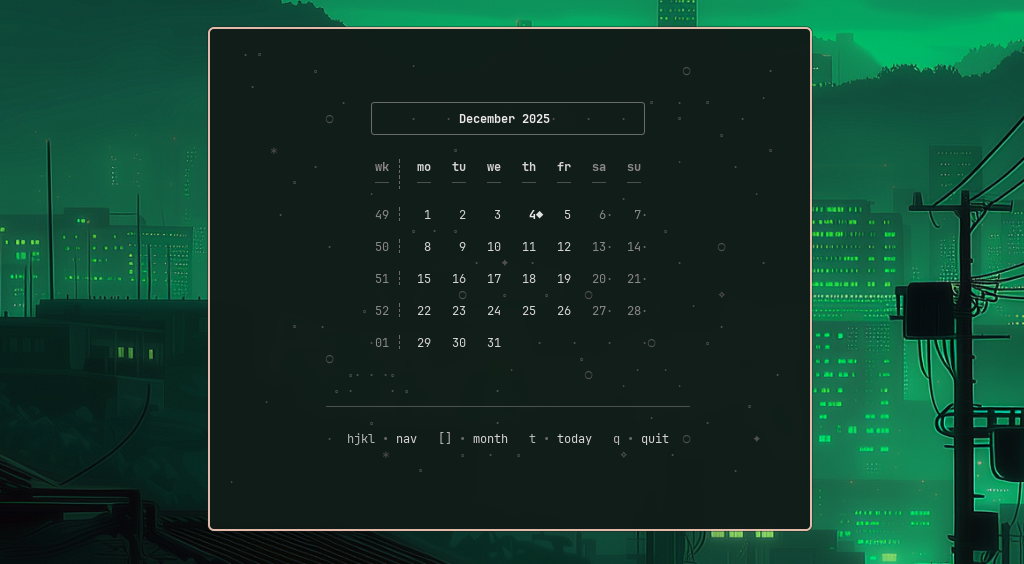
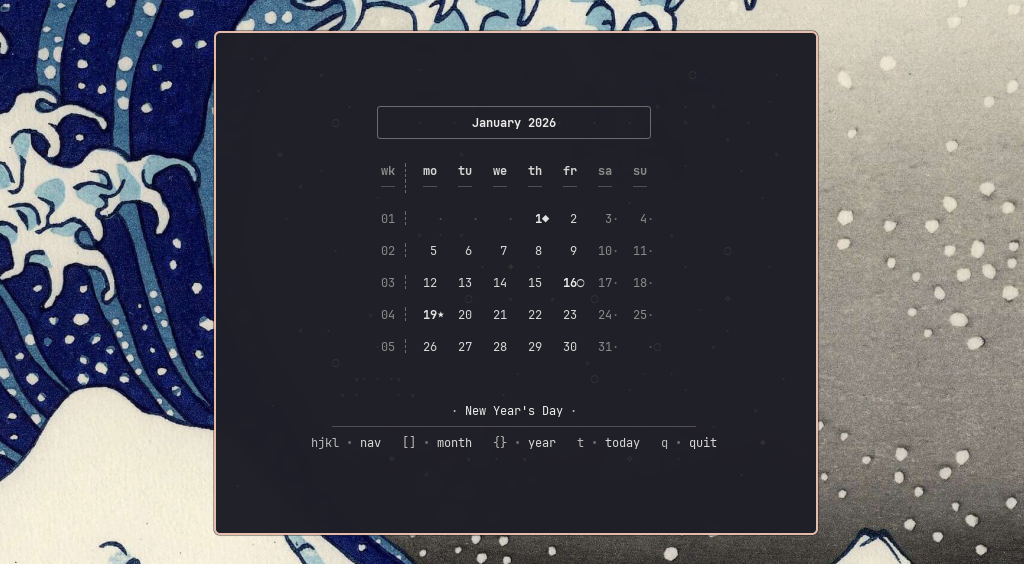
chore: hyprland window management improvements
- Update launcher to pass LAUNCHED_BY_LAUNCHER flag to calendar script
  - Fix Hyprland windowrule syntax for version 0.53+ compatibility
  - Capture window address at startup for safe cleanup
  - Bump version to 0.3.7
  - Update documentation and install message

diff --git a/README.md b/README.md
@@ -37,6 +37,7 @@
 - **4 Background Styles**: orbital, stars, minimal, none + custom background support
 - **Month View Calendar**: Full month grid with complete weeks
 - **ISO 8601 Week Numbers**: Week numbers displayed alongside calendar
+- **Public Holidays**: Auto-detected country holidays with local caching
 
 ### Navigation
 - **Arrow Keys** or **hjkl** (vim-style): Navigate between days
@@ -84,6 +85,10 @@ makepkg -si
 **Runtime:**
 - `bash` - Core shell interpreter
 - `coreutils` - date, tput, stty commands
+
+**Optional (for holidays):**
+- `curl` - Fetch holiday data from public API
+- `jq` - JSON parsing (fallback available without it)
 
 ## 🚀 Usage
 
@@ -191,6 +196,14 @@ calendar_grid_width=38       # Calendar grid width
 ```
 skip_splash=false            # Show/hide splash screen on startup
 ```
+
+#### Holidays
+```
+holidays_enabled=true        # Enable public holidays display
+country_code=BR              # 2-letter ISO country code (auto-detected if omitted)
+```
+
+Holidays are fetched from the [Nager.Date API](https://date.nager.at) and cached locally in `~/.cache/lvsk-calendar/holidays/`. Country is auto-detected from your system locale if not configured.
 
 #### Custom Colors (hex or ANSI 256)
 ```
